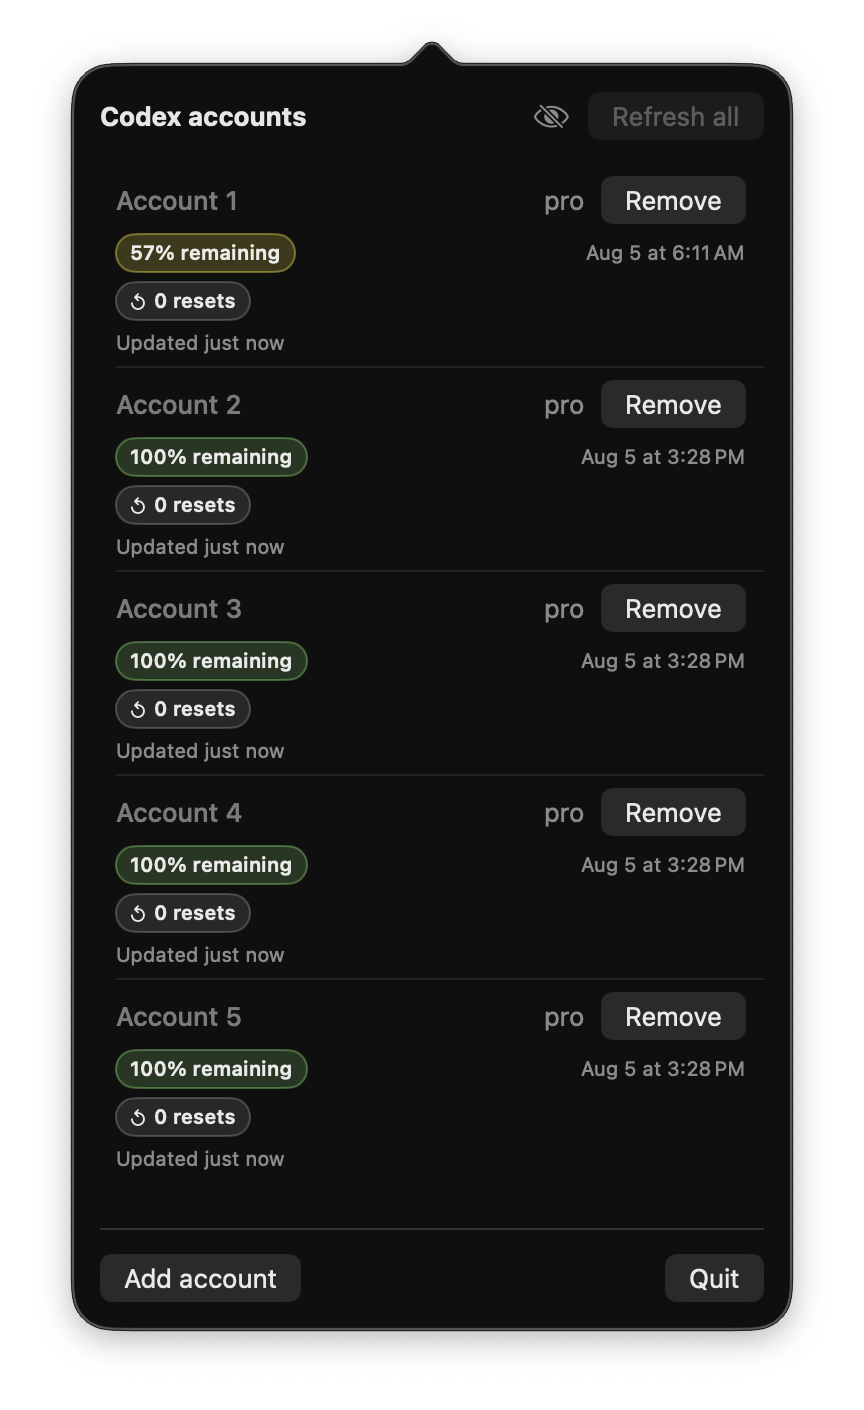
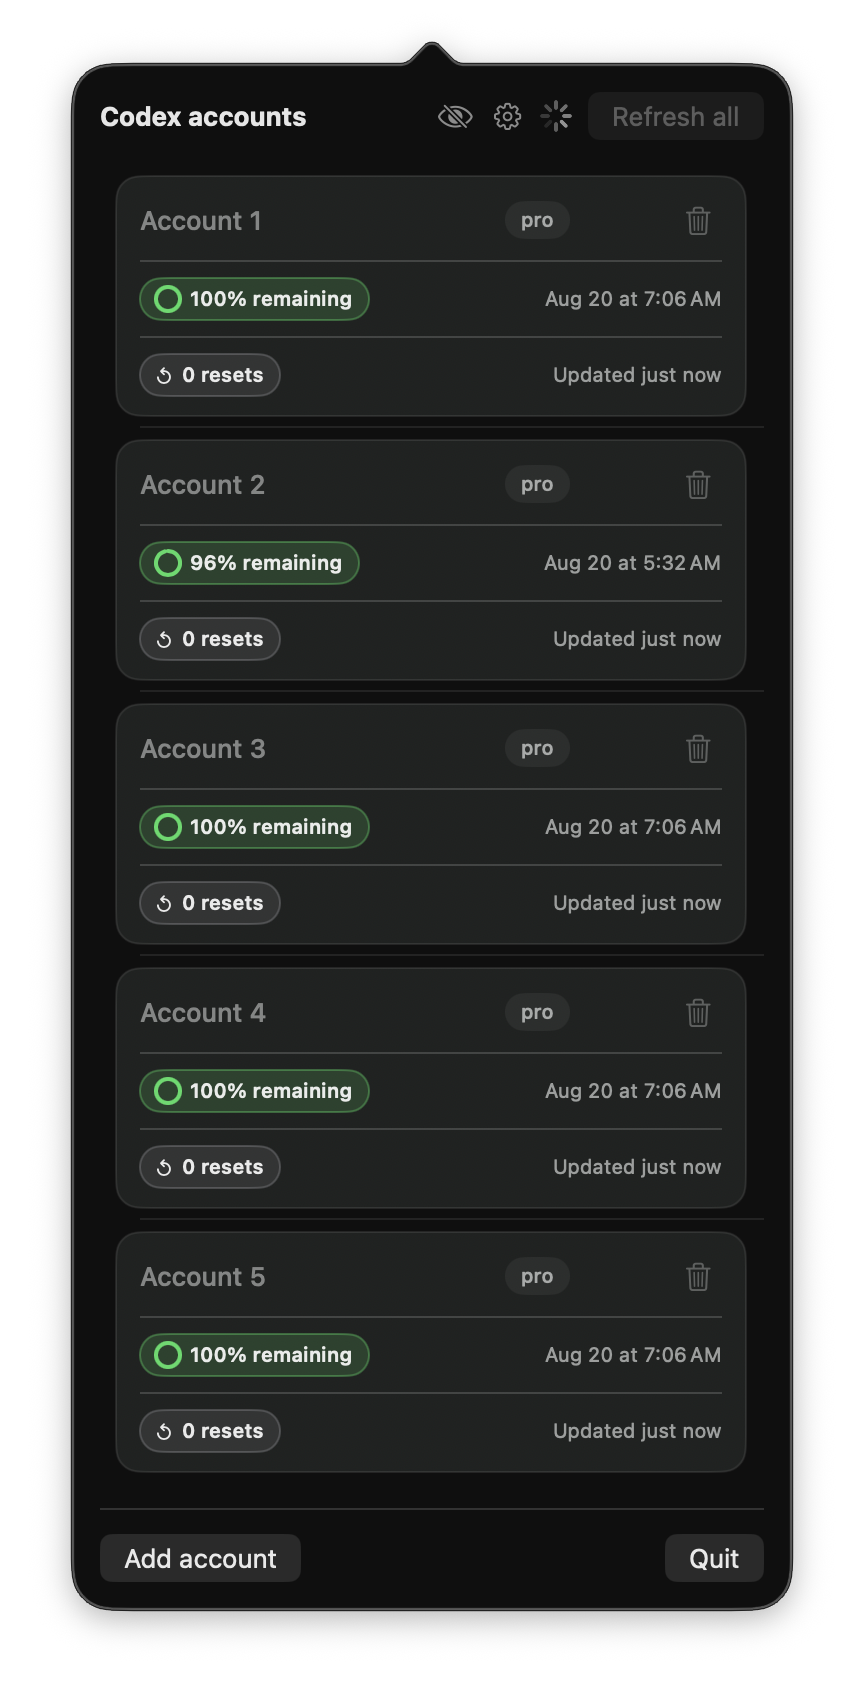
Refresh README screenshots for 1.0.7

diff --git a/README.md b/README.md
@@ -7,7 +7,7 @@ Sometimes, when you use more than one Codex account, you just want a quick
 answer: how much quota is left, when does it reset, and are reset credits
 available? CodexSwitch keeps those answers one click away.
 
-<img src="docs/images/codexswitch-menu-themes.png" alt="CodexSwitch menus shown side by side in light appearance and masked dark share view, including quota remaining, reset times, reset credits, and Quit" width="864">
+<img src="docs/images/codexswitch-menu-themes.png" alt="CodexSwitch menu shown side by side in light and dark share views, with account cards, quota remaining, reset times, reset credits, and Quit" width="864">
 
 ## What it shows
 
